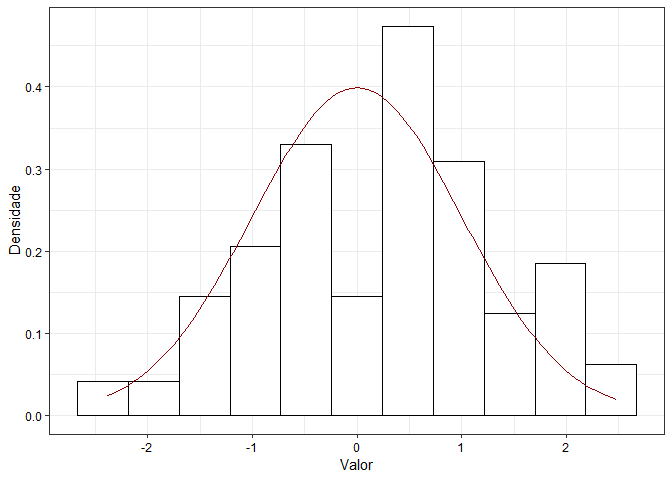
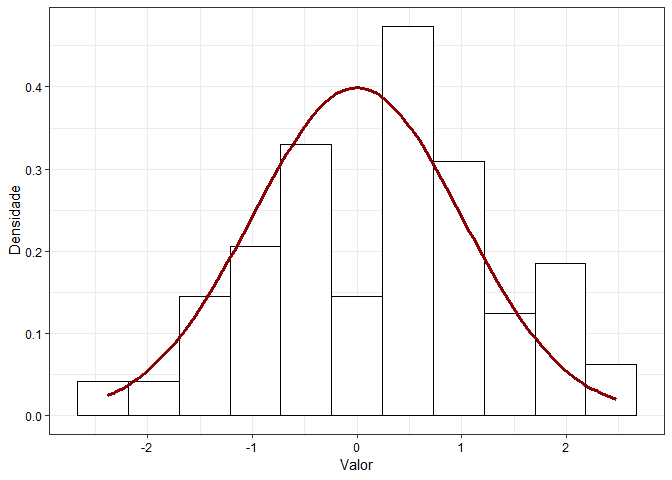
08/04/2019

diff --git a/Tarefa0/Script_Tarefa0.md b/Tarefa0/Script_Tarefa0.md
@@ -112,7 +112,7 @@ seq(0, 4, 0.1) %>%
   as_tibble() %>%
   mutate(y = seq_along(map(.x = value, .f = funcaoq11))) %>% 
   ggplot() +
-  geom_line(aes(x = y, y = value)) +
+  geom_line(aes(x = y, y = value), color = "darkred", size = 1.2) +
   theme_bw() +
   theme(legend.position = "bottom", 
         legend.direction = "horizontal",
@@ -138,7 +138,7 @@ rnorm(n = 100) %>%
   stat_function(fun = dnorm, 
                 args = list(mean = 0, sd = 1),
                 color = "darkred",
-                size = 0.7) +
+                size = 1.2) +
   theme(legend.position = "bottom", 
         legend.direction = "horizontal",
         axis.title.y = element_text(colour = "black"),
@@ -166,7 +166,7 @@ seq(-5, 5, 0.1) %>%
   as_tibble %>%
   mutate(cont = seq_along(value)) %>%
   ggplot() +
-  geom_line(aes(x = cont, y = value)) +
+  geom_line(aes(x = cont, y = value), color = "darkred", size = 1.2) +
   theme_bw() +
   theme(legend.position = "bottom", 
         legend.direction = "horizontal",
@@ -186,7 +186,7 @@ seq(-5, 5, 0.1) %>%
   as_tibble %>%
   mutate(cont = seq_along(value)) %>%
   ggplot(data = .) +
-  geom_line(aes(x = cont, y = value)) +
+  geom_line(aes(x = cont, y = value), color = "darkred", size = 1.2) +
   theme_bw() +
   theme(legend.position = "bottom", 
         legend.direction = "horizontal",
@@ -244,7 +244,7 @@ seq(-5, 5, 0.1) %>%
   as_tibble %>%
   mutate(cont = seq_along(value)) %>%
   ggplot(data = .) +
-  geom_line(aes(x = cont, y = value)) +
+  geom_line(aes(x = cont, y = value), color = "darkred", size = 1.2) +
   theme_bw() +
   theme(legend.position = "bottom", 
         legend.direction = "horizontal",
@@ -266,10 +266,10 @@ rnorm(n = 1000) %>%
   mutate(curva3 = funcaoq15(x = value, a = 2, b = 1.5, c = 0.2, D = 1.7)) %>%
   mutate(norm_inv = -dnorm(x = value)) %>%
   ggplot(aes(x = value)) +
-  geom_line(aes(y = curva1, colour = "bla1")) +
-  geom_line(aes(y = curva2, colour = "bla2")) +
-  geom_line(aes(y = curva3, colour = "bla3")) +
-  geom_line(aes(y = norm_inv, colour = "bla4")) +
+  geom_line(aes(y = curva1, colour = "bla1"), size = 1.2) +
+  geom_line(aes(y = curva2, colour = "bla2"), size = 1.2) +
+  geom_line(aes(y = curva3, colour = "bla3"), size = 1.2) +
+  geom_line(aes(y = norm_inv, colour = "bla4"), size = 1.2) +
   scale_x_continuous(breaks = c(-3, -2, -1, 0, 1, 2, 3)) +
   scale_y_continuous(breaks = seq(-1, 1, 0.1), label = formato_real_graf) +
   theme_bw() +
